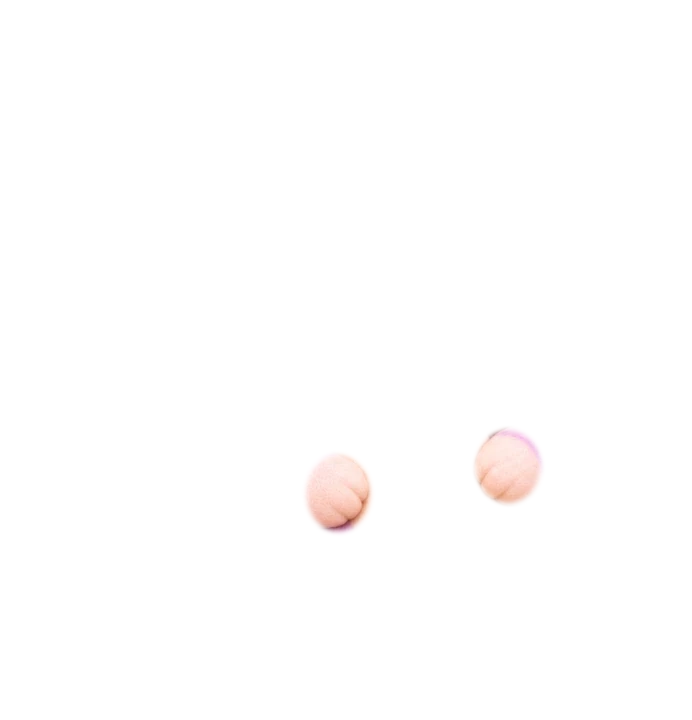
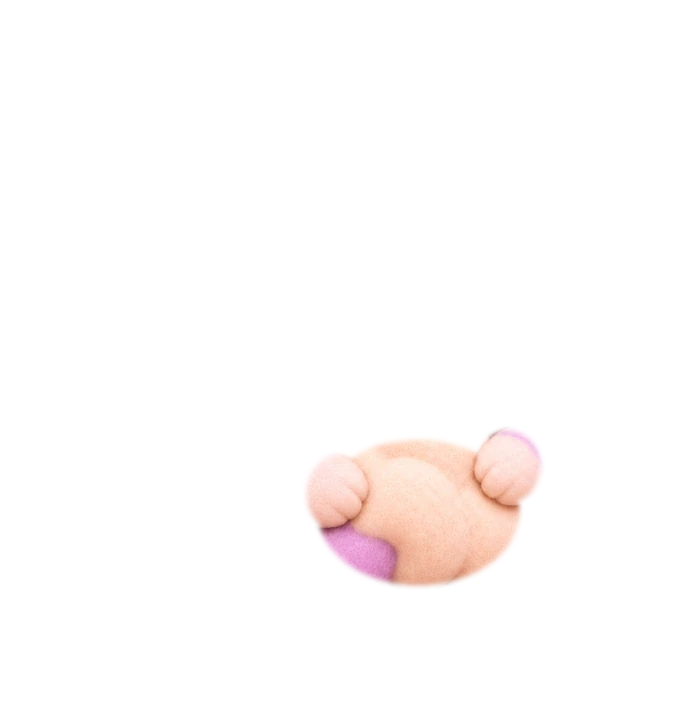
fix: roupas do corpo moldadas no tronco de cada pose (sentada e dormindo sem nada sobrando)

Changed region(s): [[0.4552, 0.6111, 0.7587, 0.825]]

diff --git a/src/entities/pet_sprites.js b/src/entities/pet_sprites.js
@@ -25,7 +25,8 @@ const FUR = { nubi: "#cbabe5" };
 class PetSprites {
   constructor(species) {
     this.species = species;
-    this.meta = null; this.img = {}; this.front = {}; this.feetImg = {}; this.noFeet = {}; this.loaded = 0; this.total = -1;
+    this.meta = null; this.img = {}; this.front = {}; this.feetImg = {}; this.noFeet = {}; this.bodyMask = {}; this.bodyCache = new Map();
+    this.loaded = 0; this.total = -1;
     this.tintCache = new Map();
     fetch("assets/" + species + "/sprites.json").then(r => (r.ok ? r.json() : null)).then(meta => {
       if (!meta || !meta.poses) return;
@@ -59,6 +60,10 @@ class PetSprites {
           pe.onload = () => { pe.ok = true; };
           pe.src = "assets/" + species + "/" + meta.prefix + "_" + p + "_pes.webp";
           this.feetImg[p] = pe;
+          const bm = new Image();
+          bm.onload = () => { bm.ok = true; };
+          bm.src = "assets/" + species + "/" + meta.prefix + "_" + p + "_corpo.webp";
+          this.bodyMask[p] = bm;
         }
       }
     }).catch(() => {});
@@ -127,6 +132,44 @@ class PetSprites {
     ctx.restore();
     return true;
   }
+  /* Roupa do corpo (e capa/asas) moldada na pose: a peça, desenhada sobre a
+     Nubi parada, vai da caixa do tronco da parada para a caixa do tronco da
+     pose (sprites.json "torso") e, se clip, é cortada pelo molde do tronco da
+     pose (nubi_<pose>_corpo.webp): nada sobra para fora do corpo, sentada ou
+     dormindo. Pintada uma vez por pose e peça; k = aparecer (escala). */
+  bodyPiece(ctx, r, pose, name, k = 1, clip = true) {
+    if (!this.img[pose]) pose = "parada";
+    const im = art(name), pm = artMeta(name), B = this.meta.box;
+    const T0 = (this.meta.poses.parada || {}).torso, T1 = (this.meta.poses[pose] || {}).torso, bm = this.bodyMask[pose];
+    if (!im || !pm || !pm.box || !B || !T0 || !T1 || (clip && !(bm && bm.ok))) return false;
+    const key = pose + "|" + name + "|" + (clip ? 1 : 0);
+    let c = this.bodyCache.get(key);
+    if (!c) {
+      const W = this.meta.w, H = this.meta.h, s = H / (B[3] - B[1]);
+      const sx = (T1[2] - T1[0]) / (T0[2] - T0[0]), sy = (T1[3] - T1[1]) / (T0[3] - T0[1]);
+      // a peça sobre a parada (px) levada para o tronco da pose
+      const x = (pm.box[0] - B[0]) * s, y = (pm.box[1] - B[1]) * s, w = (pm.box[2] - pm.box[0]) * s, h = (pm.box[3] - pm.box[1]) * s;
+      // folga para a capa/saia que passa do tronco
+      const pad = Math.round(W * 0.25);
+      c = document.createElement("canvas"); c.width = W + pad * 2; c.height = H + pad * 2;
+      const g = c.getContext("2d");
+      g.drawImage(im, pad + T1[0] + (x - T0[0]) * sx, pad + T1[1] + (y - T0[1]) * sy, w * sx, h * sy);
+      if (clip) { g.globalCompositeOperation = "destination-in"; g.drawImage(bm, pad, pad, W, H); }
+      c.pad = pad;
+      if (this.bodyCache.size > 64) this.bodyCache.clear();
+      this.bodyCache.set(key, c);
+    }
+    const F = this.F * r, x = this.left * r - c.pad * F, y = this.top * r - c.pad * F, w = c.width * F, h = c.height * F;
+    ctx.save();
+    if (k !== 1) {   // aparece crescendo a partir do meio do tronco
+      const cx = this.lx((T1[0] + T1[2]) / 2) * r, cy = this.ly((T1[1] + T1[3]) / 2) * r;
+      ctx.translate(cx, cy); ctx.scale(k, k); ctx.translate(-cx, -cy);
+    }
+    ctx.drawImage(c, x, y, w, h);
+    ctx.restore();
+    return true;
+  }
+
   /* Par de calçados: cada metade (art.json "parts") vai para o pé certo da
      pose (sprites.json "feet": [centro x, base, largura]), no tamanho do pé.
      Assim o pé some dentro do sapato também sentada e dormindo. */

diff --git a/src/entities/nubi.js b/src/entities/nubi.js
@@ -624,7 +624,9 @@ export class Nubi {
     const capeFelt = cape && FELT[cape.def.id];
     if (capeFelt) {
       const k = clamp(this._accK(cape));
-      ctx.save(); ctx.globalAlpha = k; S.piece(ctx, r, pose, capeFelt[0], false, 0.85 + 0.15 * k); ctx.restore();
+      ctx.save(); ctx.globalAlpha = k;
+      if (!S.bodyPiece(ctx, r, pose, capeFelt[0], 0.85 + 0.15 * k, false)) S.piece(ctx, r, pose, capeFelt[0], false, 0.85 + 0.15 * k);
+      ctx.restore();
     } else if (cape) {
       ctx.save(); S.bodyT(ctx, r);
       if (cape.def.shape === "wings") { const k = this._accK(cape); ctx.scale(k, k); paintWings(ctx, cape.def, r, this.t); }
@@ -659,7 +661,7 @@ export class Nubi {
       ctx.save();
       ctx.globalAlpha = clamp(k);
       const felt = FELT[bodyWear.def.id];
-      if (felt && S.piece(ctx, r, pose, felt[0], false, 0.85 + 0.15 * clamp(k))) { /* roupa em feltro */ }
+      if (felt && (S.bodyPiece(ctx, r, pose, felt[0], 0.85 + 0.15 * clamp(k)) || S.piece(ctx, r, pose, felt[0], false, 0.85 + 0.15 * clamp(k)))) { /* roupa em feltro, moldada na pose */ }
       else if (bodyWear.def.shape === "tutu") { S.bodyT(ctx, r); ctx.translate(0, r * 0.65); ctx.scale(k, k); ctx.translate(0, -r * 0.65); paintTutu(ctx, bodyWear.def, r, this.t); }
       else { S.torsoClip(ctx, r); S.bodyWearT(ctx, r); ctx.translate(0, (1 - clamp(k)) * r * 0.4); paintBody(ctx, bodyWear.def, r, this.t); }
       ctx.restore();

diff --git a/sw.js b/sw.js
@@ -1,6 +1,6 @@
 /* Service worker — joga 100% offline. Precache de todos os módulos e assets.
    Estratégia cache-first: ótimo para um jogo estático que não muda em runtime. */
-const CACHE = "nubi-v32";
+const CACHE = "nubi-v33";
 const ASSETS = [
   "./",
   "./index.html",
@@ -45,6 +45,14 @@ const ASSETS = [
   "./assets/nubi/nubi_comendo_pes.webp",
   "./assets/nubi/nubi_dormindo_pes.webp",
   "./assets/nubi/nubi_sentada_pes.webp",
+  "./assets/nubi/nubi_parada_corpo.webp",
+  "./assets/nubi/nubi_piscando_corpo.webp",
+  "./assets/nubi/nubi_falando_corpo.webp",
+  "./assets/nubi/nubi_acenando_corpo.webp",
+  "./assets/nubi/nubi_comemorando_corpo.webp",
+  "./assets/nubi/nubi_comendo_corpo.webp",
+  "./assets/nubi/nubi_dormindo_corpo.webp",
+  "./assets/nubi/nubi_sentada_corpo.webp",
   "./assets/comidas/comida_blueberry.webp",
   "./assets/comidas/comida_strawberry.webp",
   "./assets/comidas/comida_banana.webp",

diff --git a/scripts/nubi-fit.py b/scripts/nubi-fit.py
@@ -8,6 +8,10 @@ parada. Nas outras poses as patinhas e os pés mudam de lugar, então:
 - grava assets/nubi/nubi_<pose>_frente.webp: só as patinhas da pose (o resto
   transparente). O jogo desenha essa camada POR CIMA da roupa, para as mãos
   aparecerem na frente do tecido;
+- grava assets/nubi/nubi_<pose>_corpo.webp: o molde do tronco da pose (sem
+  cabeça, rabo e pés) e em sprites.json "torso", a caixa dele. A roupa do
+  corpo, desenhada sobre a Nubi parada, é levada da caixa do tronco da parada
+  para a da pose e cortada pelo molde: nada sobra para fora do corpo;
 - grava assets/nubi/nubi_<pose>_pes.webp: só os pés. Sem sapato o jogo desenha
   os pés por cima da roupa; com sapato, apaga os pés da Nubi (para nenhuma
   pontinha aparecer atrás do sapato);
@@ -53,7 +57,16 @@ FEET = {
     "sentada":     [[318, 690, 113], [533, 690, 127]],
     "dormindo":    [[278, 700, 135], [492, 700, 135]],
 }
-FOOT_H = {"sentada": 110, "dormindo": 85}   # altura do pé visto (padrão 54: sem a sombra da barriga)
+FOOT_H = {"sentada": 110, "dormindo": 85}
+# tronco de cada pose (onde a roupa do corpo pode ficar): elipse do tronco
+# menos a cabeça (elipse) e menos o que fica NA FRENTE do corpo (rabo abraçado
+# dormindo). Em px da imagem da pose.
+STAND = {"torso": (415, 545, 200, 160), "head": (445, 255, 218, 142), "cut": []}
+TORSO = {
+    "parada": STAND, "falando": STAND, "piscando": STAND, "acenando": STAND, "comemorando": STAND, "comendo": STAND,
+    "sentada":  {"torso": (415, 575, 190, 125), "head": (440, 290, 232, 160), "cut": []},
+    "dormindo": {"torso": (420, 575, 178, 132), "head": (440, 270, 228, 180), "cut": [(418, 512, 100, 72)]},
+}   # altura do pé visto (padrão 54: sem a sombra da barriga)
 
 
 def _layer(im, mask):
@@ -64,11 +77,12 @@ def _layer(im, mask):
 
 
 def front_layer(pose):
-    """Só as patinhas da pose."""
+    """Só as patinhas da pose (e o que fica na frente da roupa, como o rabo
+    abraçado dormindo)."""
     im = Image.open(os.path.join(NUBI, f"nubi_{pose}.webp")).convert("RGBA")
     mask = Image.new("L", im.size, 0)
     d = ImageDraw.Draw(mask)
-    for cx, cy, rx, ry in PAWS[pose]:
+    for cx, cy, rx, ry in PAWS[pose] + TORSO[pose]["cut"]:   # e o rabo abraçado (dormindo)
         d.ellipse((cx - rx, cy - ry, cx + rx, cy + ry), fill=255)
     return _layer(im, mask.filter(ImageFilter.GaussianBlur(2.5)))
 
@@ -93,6 +107,28 @@ def feet_layer(pose):
     m = m.filter(ImageFilter.MaxFilter(5)).filter(ImageFilter.MinFilter(3)).filter(ImageFilter.MaxFilter(3))
     m = Image.fromarray(np.minimum(np.asarray(m), np.asarray(ell)))
     return _layer(im, m.filter(ImageFilter.GaussianBlur(1)))
+
+
+def body_mask(pose):
+    """Molde do tronco da pose: onde a roupa do corpo é desenhada (o resto da
+    roupa é cortado). Sem cabeça, rabo, patinhas e pés."""
+    im = Image.open(os.path.join(NUBI, f"nubi_{pose}.webp")).convert("RGBA")
+    t = TORSO[pose]
+    m = Image.new("L", im.size, 0)
+    d = ImageDraw.Draw(m)
+    cx, cy, rx, ry = t["torso"]
+    d.ellipse((cx - rx, cy - ry, cx + rx, cy + ry), fill=255)
+    hx, hy, hrx, hry = t["head"]
+    d.ellipse((hx - hrx, hy - hry, hx + hrx, hy + hry), fill=0)
+    for x, y, a, b in t["cut"]:
+        d.ellipse((x - a, y - b, x + a, y + b), fill=0)
+    for fx, base, w in FEET[pose]:
+        h = FOOT_H.get(pose, 54)
+        d.ellipse((fx - w / 2, base - h, fx + w / 2, base + 8), fill=0)
+    alpha = np.asarray(im.getchannel("A"))
+    a = np.minimum(np.asarray(m), alpha)
+    out = Image.fromarray(a, "L").filter(ImageFilter.GaussianBlur(1.5))
+    return out
 
 
 def shoe_parts(path):
@@ -121,6 +157,11 @@ def main(preview=None):
         fl = front_layer(pose)
         fl.save(os.path.join(NUBI, f"nubi_{pose}_frente.webp"), "WEBP", quality=90, method=6)
         feet_layer(pose).save(os.path.join(NUBI, f"nubi_{pose}_pes.webp"), "WEBP", quality=90, method=6)
+        bm = body_mask(pose)
+        white = Image.new("RGBA", bm.size, (255, 255, 255, 255))
+        white.putalpha(bm)
+        white.save(os.path.join(NUBI, f"nubi_{pose}_corpo.webp"), "WEBP", quality=90, method=6)
+        meta["poses"][pose]["torso"] = list(bm.point(lambda v: 255 if v > 60 else 0).getbbox())
         meta["poses"][pose]["feet"] = FEET[pose]
         meta["poses"][pose]["feetH"] = FOOT_H.get(pose, 54)   # altura do pé visto (sentada: a sola pra frente)
         meta["poses"][pose]["front"] = True
